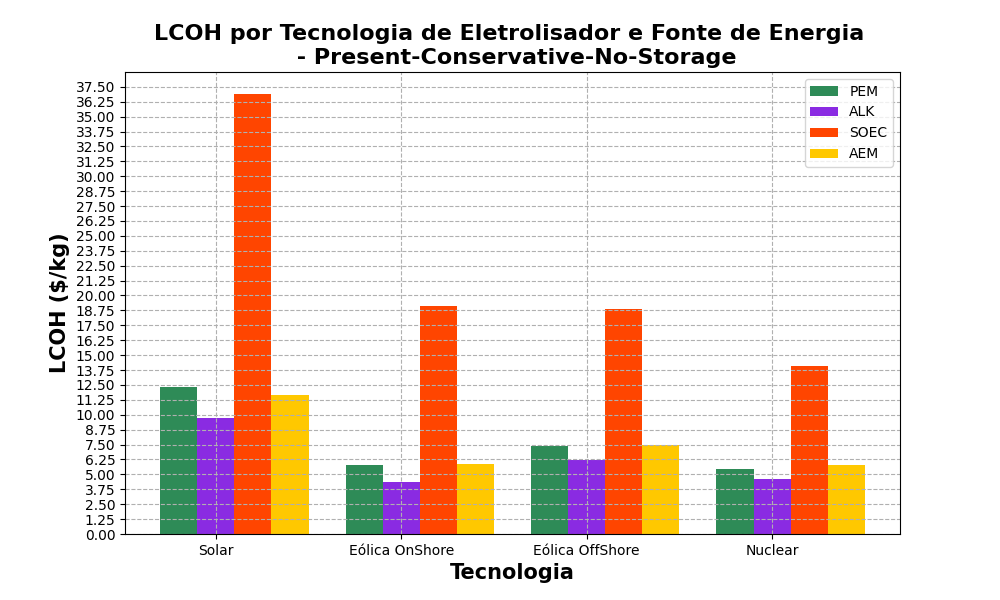
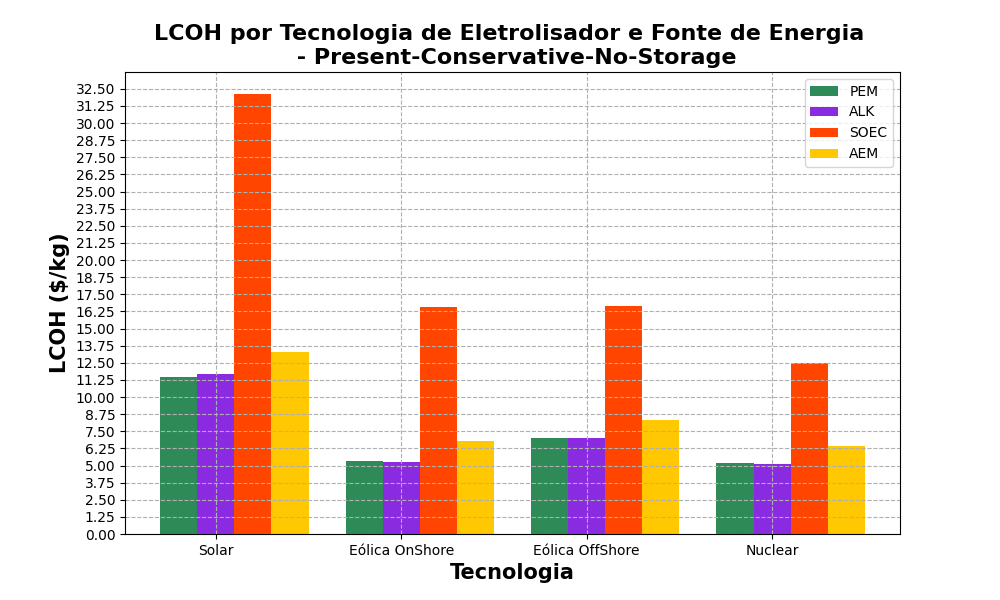
Data from 2025 different scenarios has been inserted. Capex and  opex for renewable sourcers and electrolyzer are correct. The economic data that I am varying are capex and wacc and the technical data are cf for renewable sources and efficiency for electrolyzer

Changed region(s): [[0.062, 0.12, 0.899, 0.87], [0.775, 0.6, 0.837, 0.63]]

diff --git a/Lcoh_main.py b/Lcoh_main.py
@@ -55,46 +55,46 @@ def parameters_present_pessimism():
     pot_pem = 988.68 # kW
     h2_pem = 17.976 # kg/h 
     FlowRate_pem = 200 # Nm3/h
-    ef_pem = 0
-    pem_energy_prod1kg = 55*1.01 # kWh/kg
+    ef_pem = 0.557
+    pem_energy_prod1kg = (0.607/ef_pem)*55 # kWh/kg
     lifetime_pem = 50000 # h IRENA
     bar_pem = 30
 
     # Alkalino parametros
-    capex_alk = 1000 # $/kW - IEA 2020
+    capex_alk = 1400 # $/kW - IEA 2020
     opex_alk = 0.02
     
     pot_alk = 1000 # kW
     FlowRate_alk = 200
     h2_alk = FlowRate_alk*0.08988 # kg/h  nao to usando pra nada pois calculamos por fora a energia para produzir 1kg
-    ef_alk = 0
-    alk_energy_prod1kg = (4.8/0.08988) + (4.8/0.08988)*0.1 # kWh/kg
+    ef_alk = 0.55
+    alk_energy_prod1kg = (0.6/ef_alk)*58.75 # kWh/kg (4.8/0.08988) + (4.8/0.08988)*0.1
     lifetime_alk = 80000 # h  Datasheet
     bar_alk = 30
 
     # Parametros SOEC
-    capex_soec = 4400 # $/kW - IEA 2020
+    capex_soec = 4200 # $/kW - IEA 2020
     opex_soec = 0.02 # %
 
     pot_soec = 1100 # kW
     h2_soec = 24 # kg/h nao to usando pra nada pois calculamos por fora a energia para produzir 1kg
     FlowRate_soec = h2_soec/0.08988
-    soec_energy_prod1kg = 39.4 + 39.4*0.1 # kWh/kg
-    ef_soec = 0
+    ef_soec = 0.707
+    soec_energy_prod1kg = (0.757/ef_soec)*43.34 # kWh/kg 39.4 + 39.4*0.1
     lifetime_soec = 30000 # h IEA
     bar_soec = 1
 
     # Parametros AEM
-    capex_aem = (469.13+258.02) + 300 #
+    capex_aem = (469.13+258.02) + 1000 #
     nao_utilizado_opex = 1
 
-    pot_aem = 1000 # kW
+    pot_aem = 1600 # kW
     FlowRate_aem = 210 # Nm3/h
     h2_aem = 453/24 # kg/h -> So esta sendo utilizado para calcular o opex, pois energia para produzir 1kg eh calculada por fora
-    aem_energy_prod1kg = 53.3 # kWh/kg
-    ef_aem = 0.625 # LHV
+    ef_aem = 0.575 # LHV
+    aem_energy_prod1kg = (0.625/ef_aem)*53.3 # kWh/kg
     lifetime_aem = 20000 # h - (M. KIM et. al, 2024) - AEM Techno-economic
-    bar_aem = 30
+    bar_aem = 35
 
 #     calculate_with_storage(t, wacc, capex_sol, opex_sol, cf_sol, capex_WindOnshore, opex_WindOnshore, cf_WindOnshore,
 #             capex_WindOffshore, opex_WindOffshore, cf_WindOffshore, capex_nuclear, opex_nuclear, cf_nuclear,
@@ -153,50 +153,50 @@ def parameters_present_conservative():
     ######### Eletrolisador ############
     ### Custos e parametros
     # PEM parametros
-    capex_pem = 1300 # USD/kW - IEA 2020
+    capex_pem = 1168 # USD/kW - IEA 2020
     opex_pem = 0.02 # %
 
     pot_pem = 988.68 # kW
     h2_pem = 17.976 # kg/h 
     FlowRate_pem = 200 # Nm3/h
-    ef_pem = 0
-    pem_energy_prod1kg = 55*1.01 # kWh/kg
+    ef_pem = 0.607
+    pem_energy_prod1kg = 55 # kWh/kg Datasheet considereing BOP
     lifetime_pem = 50000 # h IRENA
     bar_pem = 30
 
     # Alkalino parametros
-    capex_alk = 800 # $/kW - IEA 2020
+    capex_alk = 1140 # $/kW - IEA 2020
     opex_alk = 0.02
     
     pot_alk = 1000 # kW
     FlowRate_alk = 200
     h2_alk = FlowRate_alk*0.08988 # kg/h  nao to usando pra nada pois calculamos por fora a energia para produzir 1kg
-    ef_alk = 0
-    alk_energy_prod1kg = (4.8/0.08988) + (4.8/0.08988)*0.1 # kWh/kg
+    ef_alk = 0.6
+    alk_energy_prod1kg = 58.75 # kWh/kg (4.8/0.08988) + (4.8/0.08988)*0.1
     lifetime_alk = 80000 # h  Datasheet
     bar_alk = 30
 
     # Parametros SOEC
-    capex_soec = 4000 # $/kW - IEA 2020
+    capex_soec = 3000 # $/kW - IEA 2020
     opex_soec = 0.02 # %
 
     pot_soec = 1100 # kW
     h2_soec = 24 # kg/h nao to usando pra nada pois calculamos por fora a energia para produzir 1kg
     FlowRate_soec = h2_soec/0.08988
-    soec_energy_prod1kg = 39.4 + 39.4*0.1 # kWh/kg
-    ef_soec = 0
+    ef_soec = 0.757
+    soec_energy_prod1kg = 43.34 # kWh/kg 39.4 + 39.4*0.1
     lifetime_soec = 30000 # h IEA
     bar_soec = 1
 
     # Parametros AEM
-    capex_aem = (469.13+258.02) # $/kW - Atual
+    capex_aem = 931 # $/kW - Atual
     nao_utilizado_opex = 1
 
     pot_aem = 1000 # kW
     FlowRate_aem = 210 # Nm3/h
     h2_aem = 453/24 # kg/h -> So esta sendo utilizado para calcular o opex, pois energia para produzir 1kg eh calculada por fora
-    aem_energy_prod1kg = 53.3 # kWh/kg
     ef_aem = 0.625 # LHV
+    aem_energy_prod1kg = 53.3 # kWh/kg
     lifetime_aem = 20000 # h - (M. KIM et. al, 2024) - AEM Techno-economic
     bar_aem = 30
 
@@ -263,8 +263,8 @@ def parameters_present_otimism():
     pot_pem = 988.68 # kW
     h2_pem = 17.976 # kg/h 
     FlowRate_pem = 200 # Nm3/h
-    ef_pem = 0
-    pem_energy_prod1kg = 55*1.01 # kWh/kg
+    ef_pem = 0.657
+    pem_energy_prod1kg = (0.607/ef_pem)*55 # kWh/kg
     lifetime_pem = 50000 # h IRENA
     bar_pem = 30
 
@@ -275,32 +275,34 @@ def parameters_present_otimism():
     pot_alk = 1000 # kW
     FlowRate_alk = 200
     h2_alk = FlowRate_alk*0.08988 # kg/h  nao to usando pra nada pois calculamos por fora a energia para produzir 1kg
-    ef_alk = 0
-    alk_energy_prod1kg = (4.8/0.08988) + (4.8/0.08988)*0.1 # kWh/kg
+    ef_alk = 0.65
+    alk_energy_prod1kg = (0.6/ef_alk)*58.75 # kWh/kg (4.8/0.08988) + (4.8/0.08988)*0.1
     lifetime_alk = 80000 # h  Datasheet
     bar_alk = 30
 
     # Parametros SOEC
-    capex_soec = 2800 # $/kW - IEA 2020
+    capex_soec = 1800 # $/kW - IEA 2020
     opex_soec = 0.02 # %
 
     pot_soec = 1100 # kW
     h2_soec = 24 # kg/h nao to usando pra nada pois calculamos por fora a energia para produzir 1kg
-    FlowRate_soec = h2_soec/0.08988
-    soec_energy_prod1kg = 39.4 + 39.4*0.1 # kWh/kg
-    ef_soec = 0
+    FlowRate_soec = h2_soec/0.08988 
+    ef_soec = 0.807
+    soec_energy_prod1kg = (0.757/ef_soec)*43.34 # kWh/kg 39.4 + 39.4*0.1
     lifetime_soec = 30000 # h IEA
     bar_soec = 1
 
     # Parametros AEM
-    capex_aem = (469.13+258.02) # $/kW - Atual
+    capex_aem = 600 # $/kW - Atual
     nao_utilizado_opex = 1
 
     pot_aem = 1000 # kW
     FlowRate_aem = 210 # Nm3/h
     h2_aem = 453/24 # kg/h -> So esta sendo utilizado para calcular o opex, pois energia para produzir 1kg eh calculada por fora
-    aem_energy_prod1kg = 53.3 # kWh/kg
     ef_aem = 0.625 # LHV
+    aem_energy_prod1kg = 53.3 # kWh/kg
+    ef_aem = 0.675 # LHV
+    aem_energy_prod1kg = (0.625/ef_aem)*53.3 # kWh/kg
     lifetime_aem = 20000 # h - (M. KIM et. al, 2024) - AEM Techno-economic
     bar_aem = 30
 
@@ -789,8 +791,10 @@ def calculate_no_storage(t, wacc, capex_sol, opex_sol, cf_sol, capex_WindOnshore
 #     print(f'Nuclear AEM LCOH = {lcoh_no_storage_aem_nuclear:.2f} $/kg')    
 
 
-    plot_graph(lcoh_no_storage_pem_pv, lcoh_no_storage_pem_WindOnshore, lcoh_no_storage_pem_WindOffshore, lcoh_no_storage_pem_nuclear, lcoh_no_storage_alk_pv, lcoh_no_storage_alk_WindOnshore,lcoh_no_storage_alk_WindOffshore, lcoh_no_storage_alk_nuclear, 
-               lcoh_no_storage_soec_pv, lcoh_no_storage_soec_WindOnshore, lcoh_no_storage_soec_WindOffshore, lcoh_no_storage_soec_nuclear, lcoh_no_storage_aem_pv, lcoh_no_storage_aem_WindOnshore, lcoh_no_storage_aem_WindOffshore, lcoh_no_storage_aem_nuclear, txt_name_no_storage)
+    plot_graph(lcoh_no_storage_pem_pv, lcoh_no_storage_pem_WindOnshore, lcoh_no_storage_pem_WindOffshore, lcoh_no_storage_pem_nuclear,
+                lcoh_no_storage_alk_pv, lcoh_no_storage_alk_WindOnshore,lcoh_no_storage_alk_WindOffshore, lcoh_no_storage_alk_nuclear,
+                lcoh_no_storage_soec_pv, lcoh_no_storage_soec_WindOnshore, lcoh_no_storage_soec_WindOffshore, lcoh_no_storage_soec_nuclear,
+                lcoh_no_storage_aem_pv, lcoh_no_storage_aem_WindOnshore, lcoh_no_storage_aem_WindOffshore, lcoh_no_storage_aem_nuclear, txt_name_no_storage)
     
     write_txt(lcoh_no_storage_pem_pv, lcoh_no_storage_pem_WindOnshore, lcoh_no_storage_pem_WindOffshore, lcoh_no_storage_pem_nuclear,
           lcoh_no_storage_alk_pv, lcoh_no_storage_alk_WindOnshore, lcoh_no_storage_alk_WindOffshore, lcoh_no_storage_alk_nuclear,

diff --git a/functions.py b/functions.py
@@ -190,7 +190,7 @@ def lcoh(tot_capex_el, tot_opex_el, tot_capex_energy, tot_opex_energy, ciclos, w
     Installation cost = 12% Total CAPEX
     Indirect cost = 20% Total CAPEX
     """
-    #capexEletrolisador = tot_capex_el + tot_capex_el*0.5*ciclos + 0.12*tot_capex_el + 0.2*tot_capex_el
+    #Considering replacement tot_capex_el + tot_capex_el*0.5*ciclos + 0.12*tot_capex_el + 0.2*tot_capex_el
     capexEletrolisador = tot_capex_el*(1.32+0.5*ciclos)
     capex_total = capexEletrolisador + tot_capex_energy
     opex_ano = tot_opex_el + tot_opex_energy
